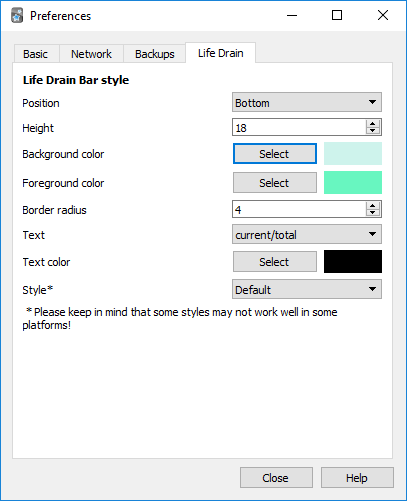
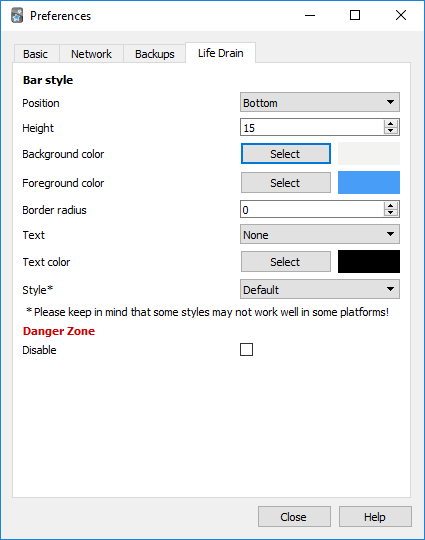
Update README explanations and changelog

diff --git a/README.md b/README.md
@@ -1,29 +1,25 @@
 # anki-lifedrain [![CodeFactor](https://www.codefactor.io/repository/github/yutsuten/anki-lifedrain/badge)](https://www.codefactor.io/repository/github/yutsuten/anki-lifedrain)
-
-This addon adds a life bar during your reviews.
+This add-on adds a life bar during your reviews.
 Your life reduces within time, and you must answer the questions in order to recover it.
 
 ## Objective
-
 The objective is to give a visual feedback of how fast the questions are being answered.
 If the life is low, it means that you are distracted or taking too much time to answer.
 
 ## Install
 ### Recommended way
-- [AnkiWeb](https://ankiweb.net/shared/info/715575551)
+- Follow the instructions in [AnkiWeb](https://ankiweb.net/shared/info/715575551).
 
 ### Manual
-- Anki 2.0: Copy the file `lifedrain.py` (inside folder `lifedrain`) into your addons folder.
-- Anki 2.1: Copy the folder `lifedrain` into your addons folder.
+Inside the folder `src/`:
+- Anki 2.0: Copy the file `__init__.py` and the folder `lifedrain` into your add-ons folder.
+- Anki 2.1: Copy the folder `lifedrain` into your add-ons folder.
 
 ## Screenshot
-
 ![Review](screenshots/review_screen.png)
 
 ## Features
-
 ### Bar styling
-
 There are many configurations to style the bar.
 Access `Tools > Preferences`, then select the tab `Life Drain`, and you'll see this screen:
 
@@ -33,12 +29,14 @@ Access `Tools > Preferences`, then select the tab `Life Drain`, and you'll see t
 - **Height**: The height of the bar, to make it bigger or smaller.
 - **Background color**: The background color of the bar.
 - **Foreground color**: The foreground color of the bar.
+- **Text**: The text shown inside the bar.
+- **Text color**: If you chose to show text, you can select its color.
 - **Border radius**: Adds a rounded border to the bar.
 - **Style**: Allow selecting some custom style to the bar.
+- **Disable**: Disable the add-on if you don't want to rush yourself all the time.
 
 ### Bar configuration (per deck)
-
-The bar has 2 configurations: the `Maximum life` and `Recover`.
+The bar has 3 configurations: the `Maximum life`, `Recover` and `Current life`.
 
 Select a deck, then in `Options`, select the tab `Life Drain`:
 
@@ -50,33 +48,49 @@ Filtered deck configurations (Added in 2018-07-01):
 
 - **Maximum life**: Is the time in seconds for the life bar go from full to empty.
 - **Recover**: Is the time in seconds that is recovered after answering a card.
+- **Current life**: Your current life, in case you want to set it for whatever reason.
 
 ### Pause drain during reviews
+If for some reason you want to stop the drain, press **P** (**P**ause) to toggle it!
 
-If for some reason you want to stop the drain, press `P` to toggle it!
+## Integration with other add-ons
+This add-on have some hooks that can be used by other add-ons.
+
+Whenever the life drops to 0, the hook `LifeDrain.gameOver` is triggered.
+You may use it in your add-on to make something interesting happen.
+
+And there is a method you can call using hook to recover (or drain) the user's life.
+It has 2 optional parameters:
+1st is `increment` (boolean), True to recover (default) and False to drain.
+2nd is `value` (integer). Default is the recover value set by the user in the deck preferences.
+
+Examples:
+
+- `runHook('LifeDrain.recover')` recovers the life using the default value in deck preferences
+- `runHook('LifeDrain.recover', False)` drains the life using the default value in deck preferences
+- `runHook('LifeDrain.recover', True, 9999)` recovers all the life
 
 ## Inspiration
+This add-on was inspired on the add-on [Progress Bar](https://ankiweb.net/shared/info/2091361802) and the game [osu!](https://osu.ppy.sh/).
 
-This addon was inspired on the addon [Progress Bar](https://ankiweb.net/shared/info/2091361802) and the game [osu!](https://osu.ppy.sh/).
-
-The [Progress Bar](https://ankiweb.net/shared/info/2091361802) addon showed me that it was possible to add a bar to the review screen, and provide visual feedback through it.
+The [Progress Bar](https://ankiweb.net/shared/info/2091361802) add-on showed me that it was possible to add a bar to the review screen, and provide visual feedback through it.
 
 [Osu!](https://osu.ppy.sh/) is a rhythm game I play, and one of its features is a life bar that reduces while playing, and to recover it you have to click the circles in the correct timing.
 
 And then I just thought: why not to have a life bar with drain in Anki?
 
 ## CHANGELOG
-- **2018-12-08**: Fix autosync failing.
-- **2018-12-01**: Fix sync failing.
+- **2018-12-09**: Added disable option and some hooks to allow integration with other add-ons.
+- **2018-12-08**: Fixed autosync failing.
+- **2018-12-01**: Fixed sync failing.
 - **2018-12-01**: Make the settings more flexible (max life with 4 digits and drain 0) and bugfix.
 - **2018-11-23**: Added option to show remaining life as text.
-- **2018-10-27**: Fixed keyboard shortcut affecting other addons on Anki 2.1.
+- **2018-10-27**: Fixed keyboard shortcut affecting other add-ons on Anki 2.1.
 - **2018-07-01**: Added life drain options to filtered decks.
 - **2018-06-10**: Fixed bugs when suspending cards while reviewing.
 - **2018-05-20**: Initial release.
 
 ## Contribute
-
 If you find any bugs, feel free to open issues. I'll try to answer / fix those as soon as I can!
 
 If you want to help even more, fell free to open a PR too!
